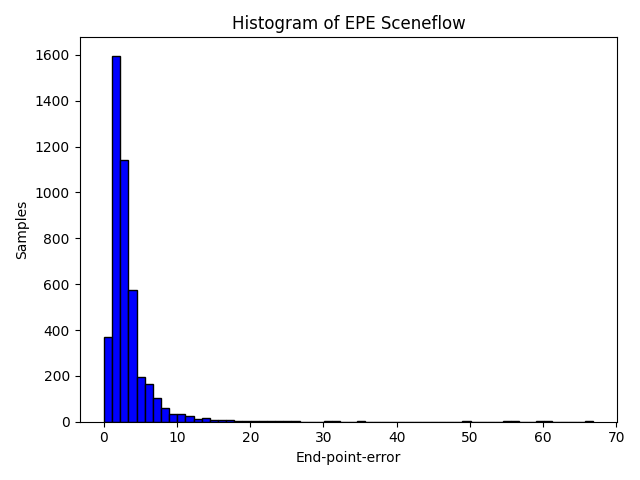
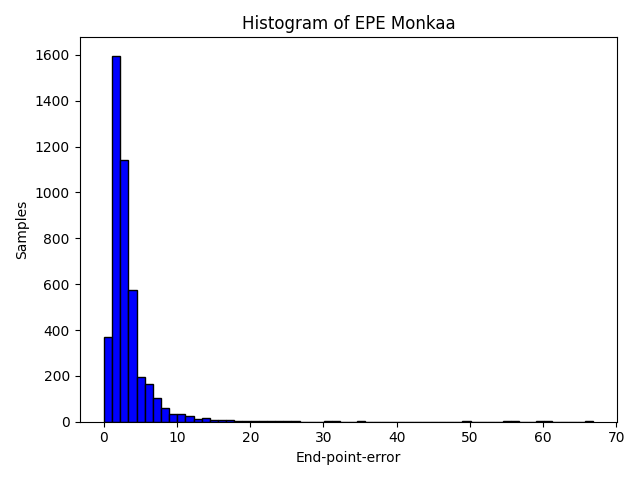
added updated plots

Changed region(s): [[0.3438, 0.0312, 0.75, 0.0625]]

diff --git a/PSMNet-master/evaluate_model.py b/PSMNet-master/evaluate_model.py
@@ -19,14 +19,14 @@ def read_file(path):
 def plot(error_array):
     plt.hist(error_array, color = 'blue', edgecolor = 'black', bins = 60)
 
-    plt.title('Histogram of EPE Sceneflow')
+    plt.title('Histogram of EPE Monkaa')
     plt.xlabel('End-point-error')
     plt.ylabel('Samples')
     plt.tight_layout()
     plt.savefig('error_hist_sceneflow_monkaa.png')
 
 def main():
-    error_array = read_file("test_sceneflow_scenflow_trained.txt")
+    error_array = read_file("trained_model_monkaa/test_sceneflow_monkaa_cloud.txt")
     plot(error_array)
 
 if __name__ == '__main__':

diff --git a/PSMNet-master/disparity_to_color.py b/PSMNet-master/disparity_to_color.py
@@ -42,7 +42,7 @@ def disp_map(I, img):
 def main():
   max_disp = 256
   #name of disparity image
-  disp = 'Test_disparity.png'
+  disp = 'Test_true_disparity.png'
 
   #load image
   img = cv2.imread(disp,-1)
@@ -54,7 +54,7 @@ def main():
   r = disp_map(I, img)
 
   #write to output folderput
-  output_color_disp_name = 'plots/testje_sceneflow.png'
+  output_color_disp_name = 'plots/test4/monkaa/sceneflow_true_test4.png'
   cv2.imwrite(output_color_disp_name, r)
 
 if __name__ == '__main__':

diff --git a/PSMNet-master/Test_img.py b/PSMNet-master/Test_img.py
@@ -14,6 +14,7 @@ import cv2
 from PIL import Image
 import chardet
 import re
+import matplotlib.pyplot as plt
 
 def readPFM(file):
     file = open(file, 'rb')
@@ -188,6 +189,7 @@ def main():
 
         true_img = Image.fromarray(true_img)
         true_img.save('Test_true_disparity.png')
+
 
 if __name__ == '__main__':
    main()
